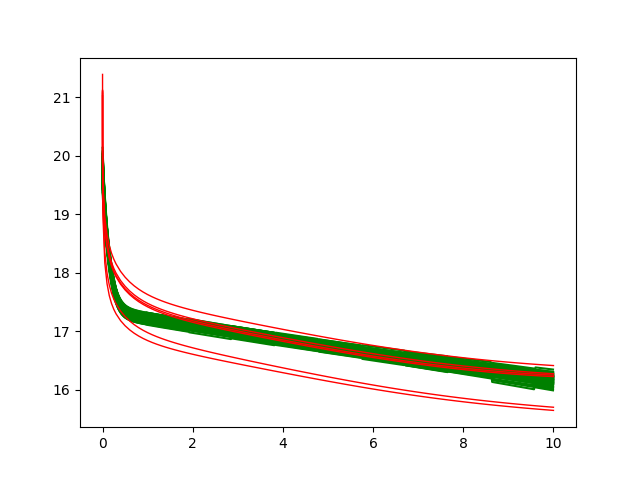
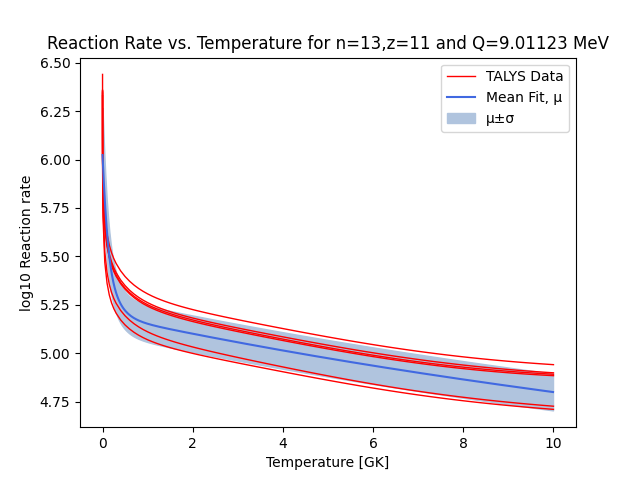
Add working PBNN, and draft of finished code

diff --git a/src/NNdata_fit.py b/src/NNdata_fit.py
@@ -1,0 +1,168 @@
+import numpy as np
+from src.plot import *
+
+from tensorflow.keras.models import Sequential
+from tensorflow.keras.layers import Dense
+from tensorflow.keras.optimizers import Adam
+from tensorflow.keras import layers
+from tensorflow import keras
+import tensorflow as tf
+import tensorflow_probability as tfp
+
+def reaclib_exp(t9, a0, a1, a2, a3, a4, a5, a6):
+    """Rate format of REACLIB library.
+    t9          : Temperature in Gigakelvin
+    a0,...,a6   : Parameters of REACLIB function"""
+    params = [a0, a1, a2, a3, a4, a5, a6]
+    s = params[0]
+    for i in range(1, 6):
+        s += params[i]*t9**((2*i-5)/3)
+    s += params[6]*np.log(t9)
+    return s
+
+
+def read_data(n, z):
+    """Reads the data from ./data/{n}-{z}/, and outputs a (Q, T)-array and Rate list, as fit dataset.
+    n       : neutron number
+    z       : proton number"""
+
+
+def prior(kernel_size, bias_size, dtype=None):
+    n = kernel_size + bias_size
+    prior_model = keras.Sequential([tfp.layers.DistributionLambda(
+        lambda t: tfp.distributions.MultivariateNormalDiag(
+            loc=tf.zeros(n), scale_diag=tf.ones(n)
+        )
+    )])
+    return prior_model
+
+def posterior(kernel_size, bias_size, dtype=None):
+    n = kernel_size + bias_size
+    posterior_model = keras.Sequential([tfp.layers.VariableLayer(
+        tfp.layers.MultivariateNormalTriL.params_size(n), dtype=dtype),
+        tfp.layers.MultivariateNormalTriL(n)])
+    return posterior_model
+
+
+def create_probabilistic_bnn_model(train_size):
+
+    model = keras.Sequential([keras.layers.Input(shape=(2,)),
+        tfp.layers.DenseVariational(
+                units=4,
+                make_prior_fn=prior,
+                make_posterior_fn=posterior,
+                kl_weight=1 / train_size,
+                activation="sigmoid",),
+        tfp.layers.DenseVariational(
+                units=4,
+                make_prior_fn=prior,
+                make_posterior_fn=posterior,
+                kl_weight=1 / train_size,
+                activation="sigmoid",),
+        layers.Dense(units=2),
+        tfp.layers.IndependentNormal(1)])
+
+    return model
+
+
+def create_bnn_model(train_size):
+
+    model = keras.Sequential([keras.layers.Input(shape=(2,)),
+        tfp.layers.DenseVariational(
+                units=4,
+                make_prior_fn=prior,
+                make_posterior_fn=posterior,
+                kl_weight=1 / train_size,
+                activation="sigmoid",),
+        tfp.layers.DenseVariational(
+                units=4,
+                make_prior_fn=prior,
+                make_posterior_fn=posterior,
+                kl_weight=1 / train_size,
+                activation="sigmoid",),
+        layers.Dense(units=1)])
+
+    return model
+
+
+def create_standard_nn_model(train_size):
+
+    model = keras.Sequential([keras.layers.Input(shape=(2,)),
+        layers.Dense(
+                units=4,
+                activation="sigmoid"),
+        layers.Dense(
+                units=4,
+                activation="sigmoid"),
+        layers.Dense(units=1)])
+
+    return model
+
+
+def negative_loglikelihood(targets, estimated_distribution):
+    return -estimated_distribution.log_prob(targets)
+
+
+mae_loss = keras.losses.MeanAbsoluteError()
+
+
+def fit_data(model, loss, QT_array, rate_array, train_size, batch_size):
+    """Fits the NN model to the rate surface provided.
+    model       : NN model to be used for the fit
+    loss        : loss function to be used
+    QT_array    : array of (Q, T) points of rates
+    rate_array  : array of rates for (Q, T) points
+    train_size  : number of data points
+    batch_size  : batch size"""
+    
+    train_size = 108*21*6
+    batch_size = 32
+    epochs = 1200
+
+    initial_learning_rate = 0.1
+    final_learning_rate = 0.00075
+    learning_rate_decay_factor = (final_learning_rate / initial_learning_rate)**(1/epochs)
+    steps_per_epoch = int(train_size/batch_size)
+
+    # exponential decay learning rate
+    lr_schedule = tf.keras.optimizers.schedules.ExponentialDecay(
+                initial_learning_rate=initial_learning_rate,
+                decay_steps=steps_per_epoch,
+                decay_rate=learning_rate_decay_factor,
+                staircase=True)
+
+    model.compile(
+        optimizer=keras.optimizers.Adam(learning_rate=lr_schedule),
+        loss=loss,
+        metrics=[keras.metrics.RootMeanSquaredError()],
+    )
+
+    return None
+
+
+def plot_probabilistic_bnn(model, Q):
+    pass
+
+
+def plot_bnn(model, Q):
+    pass
+
+
+def plot_standard_nn(model, Q):
+    pass
+
+
+def save_probabilistic_bnn(model):
+    pass
+
+
+def save_bnn(model):
+    pass
+
+
+def save_standard_nn(model):
+    pass
+
+
+def reaclib_fit(model):
+    pass

diff --git a/src/BNNFit.py b/src/BNNFit.py
@@ -81,8 +81,8 @@ def create_model(train_size):
                 make_posterior_fn=posterior,
                 kl_weight=1 / train_size,
                 activation="sigmoid",),
-        layers.Dense(units=1)])
-        #tfp.layers.IndependentNormal(1)])
+        layers.Dense(units=2),
+        tfp.layers.IndependentNormal(1)])
 
     #model = keras.Model(inputs=inputs, outputs=outputs)
 
@@ -97,7 +97,7 @@ def run_fit(model, loss, QT, Z):
 
     train_size = 108*21*6
     batch_size = 32
-    epochs = 300
+    epochs = 1200
 
     initial_learning_rate = 0.1
     final_learning_rate = 0.00075
@@ -124,8 +124,11 @@ def run_fit(model, loss, QT, Z):
 
     print(model.summary())
 
-    plt.plot((model_history.history['loss']), color='blue')
-    plt.plot((model_history.history['root_mean_squared_error']), color='orange')
+    plt.plot(np.log10(model_history.history['loss']), color='blue')
+    #plt.plot(np.log10(model_history.history['root_mean_squared_error']), color='orange')
+    plt.title("Loss as function of training epochs")
+    plt.xlabel("Epoch")
+    plt.ylabel("Log10(Loss)")
     plt.savefig("NNLoss")
 
 #opt = keras.optimizers.RMSprop(learning_rate=0.01)
@@ -145,7 +148,8 @@ def run_fit(model, loss, QT, Z):
 mae_loss = keras.losses.MeanAbsoluteError()
 train_size = 108*21*6
 bnn_model = create_model(train_size)
-run_fit(bnn_model, mae_loss, dataset[0], dataset[1])
+# mae loss for standard gaussian
+run_fit(bnn_model, negative_loglikelihood, dataset[0], dataset[1])
 
 
 X = np.arange(np.min(TG), np.max(TG), 0.1)
@@ -176,27 +180,31 @@ def plot_2Dprediction(model, iterations=100, Q_idx=10):
     tempsLin = np.arange(0.0001, 10, 0.03)
     plotarray = [(column_q_sort[Q_idx], t) for t in tempsLin]
     plt.clf()
-    for _ in range(iterations):
-        plt.plot(tempsLin, (model.predict(plotarray)), color="green")
-    #prediction_distribution = model(np.array(plotarray))
-    #print(prediction_distribution)
+    #for _ in range(iterations):
+     #   plt.plot(tempsLin, (model.predict(plotarray)), color="green")
+    prediction_distribution = model(np.array(plotarray))
 
-    #print(prediction_distribution.mean(), prediction_distribution.stddev())
 
-    #prediction_mean = prediction_distribution.mean().numpy()
-    #prediction_stdv = prediction_distribution.stddev().numpy()
+    prediction_mean = prediction_distribution.mean().numpy()
+    prediction_stdv = prediction_distribution.stddev().numpy()
 
-    #plt.plot(tempsLin, prediction_mean)
-    #plt.plot(tempsLin, prediction_mean + prediction_stdv)
-    #plt.plot(tempsLin, prediction_mean - prediction_stdv)
+    plt.plot(templist, np.log10(2**(z_array[0, Q_idx, :])), color="red", linewidth=1)
+    plt.plot(templist, np.log10(2**(z_array[1, Q_idx, :])), color="red", linewidth=1)
+    plt.plot(templist, np.log10(2**(z_array[2, Q_idx, :])), color="red", linewidth=1)
+    plt.plot(templist, np.log10(2**(z_array[3, Q_idx, :])), color="red", linewidth=1)
+    plt.plot(templist, np.log10(2**(z_array[4, Q_idx, :])), color="red", linewidth=1)
+    plt.plot(templist, np.log10(2**(z_array[5, Q_idx, :])), color="red", linewidth=1, label="TALYS Data")
 
-    plt.plot(templist, (z_array[0, Q_idx, :]), color="red", linewidth=1)
-    plt.plot(templist, (z_array[1, Q_idx, :]), color="red", linewidth=1)
-    plt.plot(templist, (z_array[2, Q_idx, :]), color="red", linewidth=1)
-    plt.plot(templist, (z_array[3, Q_idx, :]), color="red", linewidth=1)
-    plt.plot(templist, (z_array[4, Q_idx, :]), color="red", linewidth=1)
-    plt.plot(templist, (z_array[5, Q_idx, :]), color="red", linewidth=1)
 
+    plt.plot(tempsLin, np.log10(2**prediction_mean), color="royalblue", label="Mean Fit, μ")
+    plt.fill_between(tempsLin, (np.log10(2**(prediction_mean + prediction_stdv))).flatten(), (np.log10(2**(prediction_mean - prediction_stdv))).flatten(), color="lightsteelblue", label="μ±σ")
+    #plt.plot(tempsLin, (prediction_mean + prediction_stdv), color="blue")
+    #plt.plot(tempsLin, (prediction_mean - prediction_stdv), color="blue")
+
+    plt.title(f"Reaction Rate vs. Temperature for n=13,z=11 and Q={column_q_sort[Q_idx]} MeV")
+    plt.xlabel("Temperature [GK]")
+    plt.ylabel("log10 Reaction rate")
+    plt.legend()
 
     plt.savefig("constQ.png")
 
